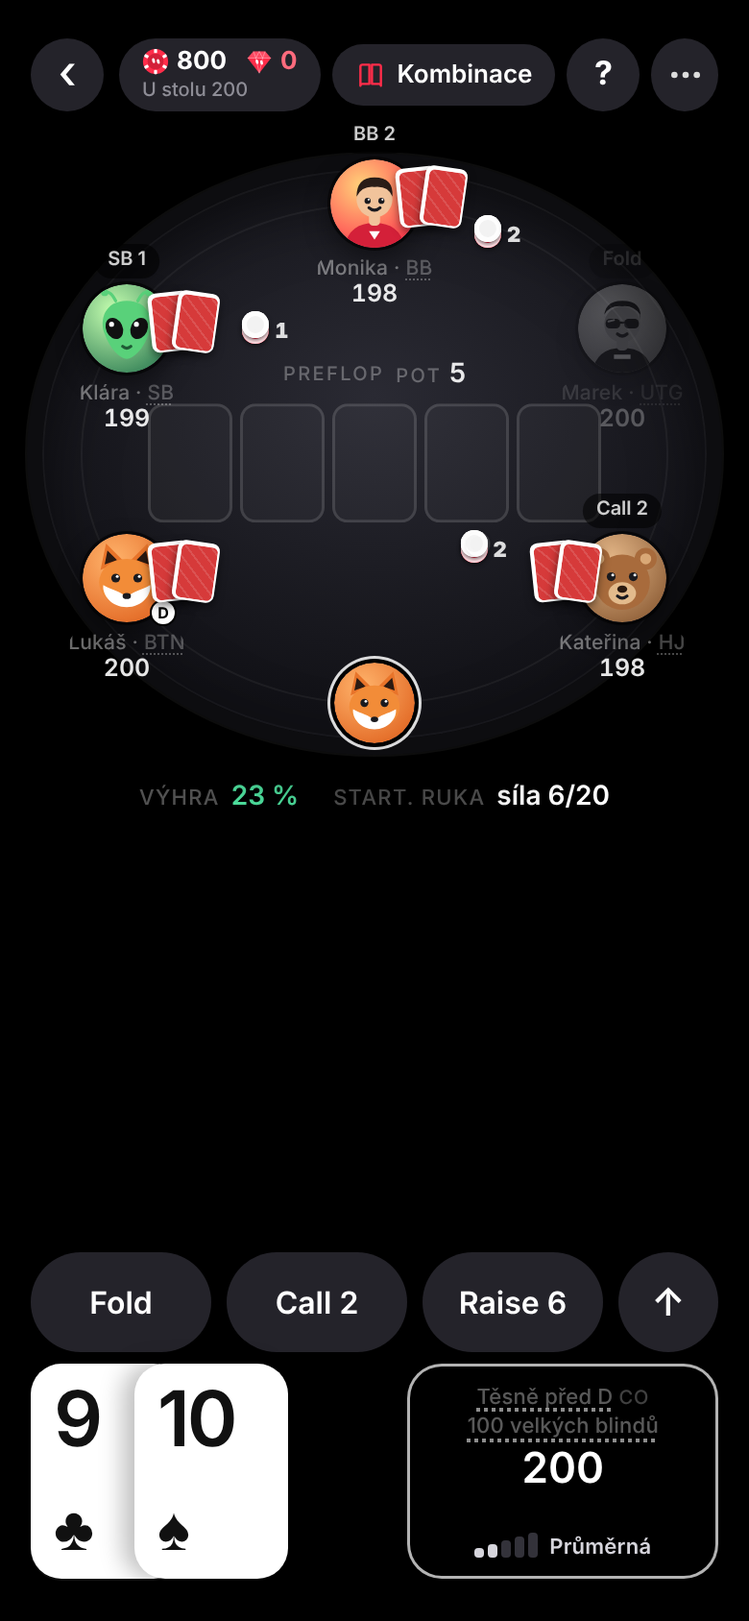
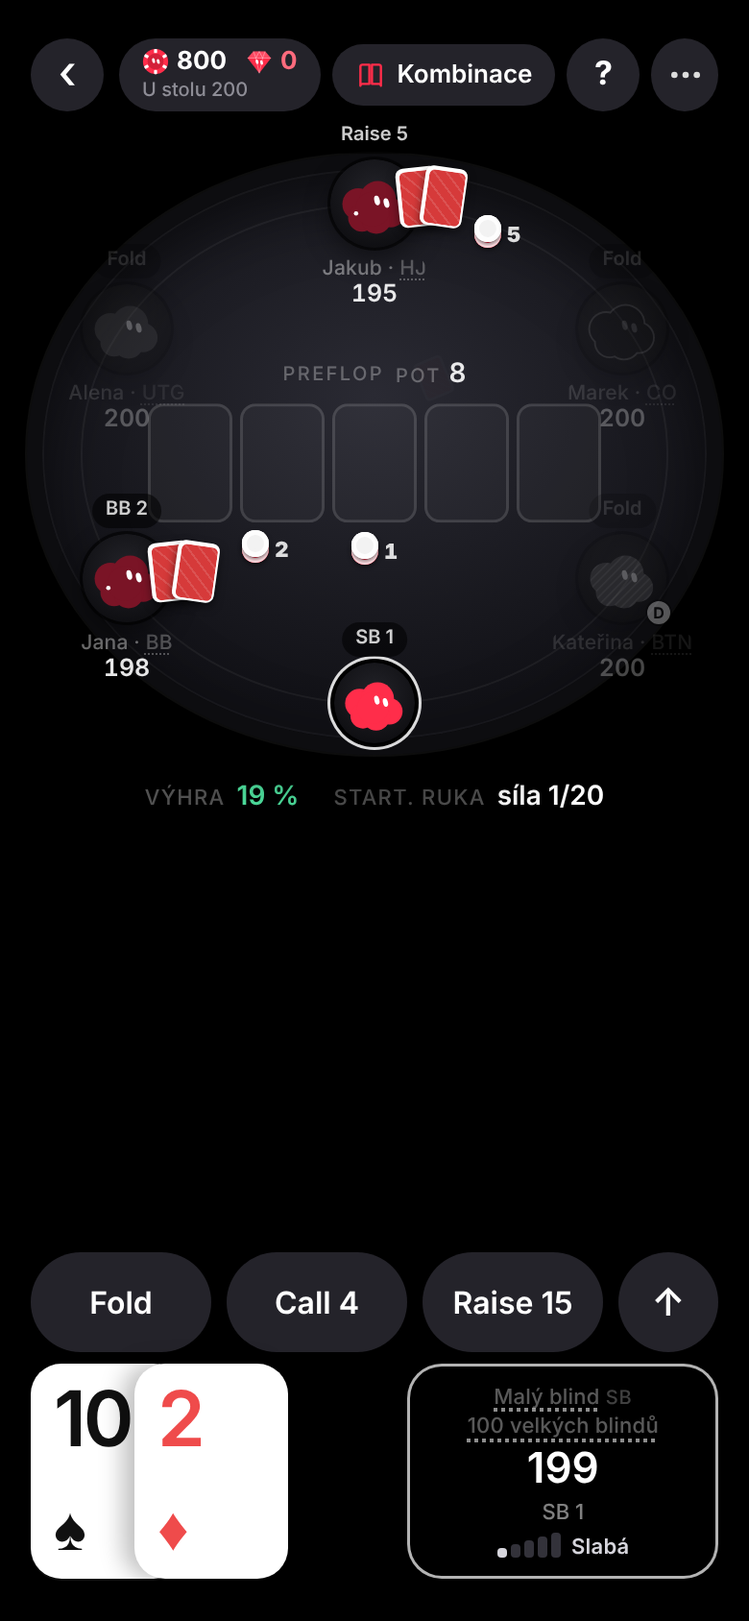
v30 (1.9.2): avatary ve stylu Lumiho (blob, šikmé oči, ploché barvy; vzácné s kovovým lemem/září, legendy s třpytem), nová jména; showdown karty vpravo nepřekrývají jméno

diff --git a/table.js b/table.js
@@ -13,37 +13,58 @@
     ['king', 'legend', { d: 12 }], ['dragon', 'legend', { d: 15 }],
     ['shark', 'excl', { ach: 'allin' }], ['wizard', 'excl', { ach: 'hands500' }], ['phoenix', 'excl', { ach: 'login7' }], ['diamond', 'excl', { ach: 'fullhouse' }]
   ];
-  const BOT_AV = ['fox', 'cat', 'bear', 'frog', 'panda', 'rabbit', 'owl', 'cowboy', 'shades', 'tiger', 'robot', 'alien', 'ninja', 'ace', 'queen'];
-  const eye = (x, y, r = 3.2, c = '#1a1a1f') => `<circle cx="${x}" cy="${y}" r="${r}" fill="${c}"/><circle cx="${x + r * .35}" cy="${y - r * .4}" r="${r * .33}" fill="#fff"/>`;
-  const eyes = (y, dx = 8, r, c) => eye(32 - dx, y, r, c) + eye(32 + dx, y, r, c);
-  const smile = (y, w = 6, c = '#1a1a1f') => `<path d="M${32 - w} ${y} Q32 ${y + w * .9} ${32 + w} ${y}" fill="none" stroke="${c}" stroke-width="2.2" stroke-linecap="round"/>`;
-  const person = (skin, shirt, hair) => `<path d="M10 66 Q12 46 32 46 Q52 46 54 66Z" fill="${shirt}"/><rect x="28" y="38" width="8" height="10" rx="3" fill="${skin}"/>${hair && hair.back || ''}<circle cx="32" cy="29" r="13" fill="${skin}"/>`;
+  const BOT_AV = ['fox', 'cat', 'bear', 'frog', 'ace', 'queen', 'panda', 'rabbit', 'owl', 'cowboy', 'shades', 'tiger', 'ninja'];
+  /* Všechny avatary jsou Lumi: stejný měkký „blob“ z kruhů, ploché barvy, dvě šikmé oválné oči.
+     Liší se jen barvou / vzorem, výrazem a jedním drobným doplňkem. Vzácnější = kovové akcenty, záře, u legend jemný třpyt. */
+  const LUMI_C = [[-40, -10, 44], [14, -24, 50], [50, 14, 40], [-30, 28, 38], [10, 30, 42], [0, 4, 48]];
+  const EP = [[12, -20], [38, -13]];
+  const B = (fill, grow, extra) => `<g fill="${fill}" ${extra || ''}>${LUMI_C.map(([x, y, r]) => `<circle cx="${x}" cy="${y}" r="${r + (grow || 0)}"/>`).join('')}</g>`;
+  const E = (fill, ry = 13.5, rx = 7.5) => EP.map(([x, y]) => `<ellipse cx="${x}" cy="${y}" rx="${rx}" ry="${ry}" transform="rotate(-14 ${x} ${y})" fill="${fill}"/>`).join('');
+  const arc = (x, y, c, up) => `<path d="M${x - 9} ${y + (up ? 4 : -2)} Q${x} ${y + (up ? -10 : 9)} ${x + 9} ${y + (up ? 4 : -2)}" fill="none" stroke="${c}" stroke-width="6" stroke-linecap="round" transform="rotate(-14 ${x} ${y})"/>`;
+  const SLEEPY = c => EP.map(([x, y]) => arc(x, y, c)).join('');
+  const WINK = c => E(c).split('/>')[0] + '/>' + arc(EP[1][0], EP[1][1], c, true);
+  const SHADES = '<g transform="rotate(-14 25 -16)" fill="#0b0b0d"><rect x="-2" y="-30" width="26" height="20" rx="7"/><rect x="28" y="-30" width="26" height="20" rx="7"/><rect x="20" y="-24" width="12" height="4"/><rect x="-24" y="-25" width="24" height="4" rx="2"/></g><path d="M3 -24 L11 -27" stroke="rgba(255,255,255,.55)" stroke-width="3" stroke-linecap="round"/>';
+  const CROWN = f => `<path d="M-14 -66 L-22 -100 L-2 -82 L14 -108 L30 -82 L50 -100 L42 -66 Z" fill="${f}" stroke="#0b0b0d" stroke-width="3" stroke-linejoin="round"/>`;
+  const HAT = '<g fill="#0b0b0d"><ellipse cx="14" cy="-66" rx="70" ry="11"/><path d="M-24 -68 Q-22 -112 14 -110 Q50 -112 52 -68Z"/></g><rect x="-23" y="-80" width="74" height="7" fill="#FF2D4A"/>';
+  const STRIPES = id => `<defs><pattern id="${id}" width="16" height="16" patternUnits="userSpaceOnUse" patternTransform="rotate(45)"><rect width="16" height="16" fill="#d63a3a"/><rect width="4" height="16" fill="rgba(255,255,255,.22)"/></pattern></defs>`;
+  const SPADE = (x, y, s, f) => `<path transform="translate(${x} ${y}) scale(${s})" fill="${f}" d="M0,-62 C18,-34 62,-12 62,16 C62,40 36,50 12,36 C14,52 22,64 32,70 L-32,70 C-22,64 -14,52 -12,36 C-36,50 -62,40 -62,16 C-62,-12 -18,-34 0,-62 Z"/>`;
+  // každý: (id) => [tělo v souřadnicích Lumiho, pozadí]
   const DRAW = {
-    fox: () => ['#ffb36b', '#e0631f', `<path d="M13 26 L17 7 L29 19Z M51 26 L47 7 L35 19Z" fill="#e8742a"/><path d="M16 22 L18 12 L25 19Z M48 22 L46 12 L39 19Z" fill="#2b1a12"/><ellipse cx="32" cy="35" rx="20" ry="17" fill="#f28c38"/><path d="M32 53 C21 53 14 44 15 37 C22 41 27 41 32 46 C37 41 42 41 49 37 C50 44 43 53 32 53Z" fill="#fff"/>${eyes(32, 8)}<ellipse cx="32" cy="45" rx="3" ry="2.2" fill="#1a1a1f"/>`],
-    cat: () => ['#c9cbd6', '#6b6f80', `<path d="M13 30 L15 8 L28 20Z M51 30 L49 8 L36 20Z" fill="#8d92a3"/><path d="M16 24 L17 13 L24 20Z M48 24 L47 13 L40 20Z" fill="#f4a9b8"/><circle cx="32" cy="36" r="19" fill="#9aa0b2"/>${eyes(33, 8, 3.4, '#2f7a3c')}<path d="M30 41 L34 41 L32 43.5Z" fill="#f47f97"/><path d="M32 43.5 Q29 47 26 45 M32 43.5 Q35 47 38 45" fill="none" stroke="#3a3a44" stroke-width="1.6" stroke-linecap="round"/><path d="M10 38 L22 40 M10 44 L22 43 M54 38 L42 40 M54 44 L42 43" stroke="#eee" stroke-width="1.2" stroke-linecap="round"/>`],
-    bear: () => ['#e6b98a', '#8a5a33', `<circle cx="15" cy="18" r="8" fill="#a86b3c"/><circle cx="49" cy="18" r="8" fill="#a86b3c"/><circle cx="15" cy="18" r="4" fill="#d9a876"/><circle cx="49" cy="18" r="4" fill="#d9a876"/><circle cx="32" cy="35" r="20" fill="#a86b3c"/><ellipse cx="32" cy="43" rx="10" ry="8" fill="#e3bb8c"/>${eyes(31, 8)}<ellipse cx="32" cy="40" rx="3.6" ry="2.6" fill="#2a1a10"/>${smile(45, 3.5)}`],
-    frog: () => ['#b8f08a', '#3f9a3a', `<ellipse cx="32" cy="42" rx="23" ry="16" fill="#66c24f"/><circle cx="20" cy="25" r="9" fill="#66c24f"/><circle cx="44" cy="25" r="9" fill="#66c24f"/><circle cx="20" cy="25" r="5.5" fill="#fff"/><circle cx="44" cy="25" r="5.5" fill="#fff"/>${eye(21, 25, 3)}${eye(45, 25, 3)}<path d="M18 43 Q32 54 46 43" fill="none" stroke="#1f5a1c" stroke-width="2.4" stroke-linecap="round"/><circle cx="17" cy="40" r="3" fill="#f7a1a1" opacity=".7"/><circle cx="47" cy="40" r="3" fill="#f7a1a1" opacity=".7"/>`],
-    ace: () => ['#ffd27a', '#ff2d4a', person('#f1c39b', '#d42039') + `<path d="M19 27 Q19 13 32 13 Q46 13 45 27 Q42 19 32 20 Q23 19 19 27Z" fill="#2a1d17"/>${eyes(30, 5, 2.2)}${smile(35, 4)}<path d="M28 52 L32 58 L36 52" fill="#fff"/>`],
-    queen: () => ['#ffc2d6', '#a33a6b', `<path d="M16 44 Q14 18 32 15 Q50 18 48 44Z" fill="#5b2d1a"/>` + person('#e8b08e', '#111') + `<path d="M19 29 Q20 14 32 14 Q45 14 45 29 Q40 20 30 21 Q24 22 19 29Z" fill="#6b3820"/>${eyes(30, 5, 2.2)}${smile(35, 3.5, '#b8324f')}<circle cx="19" cy="34" r="1.8" fill="#ffd27a"/><circle cx="45" cy="34" r="1.8" fill="#ffd27a"/>`],
-    panda: () => ['#dfe6ee', '#7d8a99', `<circle cx="16" cy="18" r="8" fill="#1d1d22"/><circle cx="48" cy="18" r="8" fill="#1d1d22"/><circle cx="32" cy="35" r="20" fill="#fff"/><ellipse cx="23" cy="33" rx="5.5" ry="7" fill="#1d1d22" transform="rotate(25 23 33)"/><ellipse cx="41" cy="33" rx="5.5" ry="7" fill="#1d1d22" transform="rotate(-25 41 33)"/>${eye(23.5, 32, 2.2, '#fff').replace('fill="#fff"/>', 'fill="#1d1d22"/>')}<circle cx="24" cy="32" r="2" fill="#fff"/><circle cx="40" cy="32" r="2" fill="#fff"/><ellipse cx="32" cy="42" rx="3.4" ry="2.4" fill="#1d1d22"/>${smile(46, 3)}`],
-    rabbit: () => ['#ffd9e4', '#c76b8a', `<ellipse cx="23" cy="14" rx="5.5" ry="14" fill="#f2f2f5"/><ellipse cx="41" cy="14" rx="5.5" ry="14" fill="#f2f2f5"/><ellipse cx="23" cy="14" rx="2.6" ry="10" fill="#f7b5c8"/><ellipse cx="41" cy="14" rx="2.6" ry="10" fill="#f7b5c8"/><circle cx="32" cy="39" r="18" fill="#f2f2f5"/>${eyes(36, 7)}<path d="M30 42 L34 42 L32 44.5Z" fill="#f47f97"/><path d="M32 44.5 V48 M29 49 Q32 51 35 49" fill="none" stroke="#555" stroke-width="1.5" stroke-linecap="round"/>`],
-    owl: () => ['#ffe2a8', '#8a6a3a', `<path d="M14 22 L18 10 L26 18Z M50 22 L46 10 L38 18Z" fill="#7a5530"/><ellipse cx="32" cy="38" rx="20" ry="22" fill="#9a6d3d"/><ellipse cx="32" cy="46" rx="12" ry="12" fill="#d9b483"/><circle cx="23" cy="30" r="8" fill="#ffd34d"/><circle cx="41" cy="30" r="8" fill="#ffd34d"/>${eye(23, 30, 4)}${eye(41, 30, 4)}<path d="M29 37 L35 37 L32 43Z" fill="#e8892b"/>`],
-    cowboy: () => ['#ffd9a8', '#b5651d', person('#e0a47e', '#3b6ea8') + `<ellipse cx="32" cy="19" rx="24" ry="5" fill="#7a4a22"/><path d="M20 19 Q20 5 32 6 Q44 5 44 19Z" fill="#8f5a2b"/><rect x="20" y="15" width="24" height="3.5" fill="#3a2414"/>${eyes(30, 5, 2.2)}<path d="M25 36 Q32 33 39 36 Q32 39 25 36Z" fill="#5b3a1e"/>`],
-    shades: () => ['#9fe7ff', '#2a6cff', person('#c98d62', '#111') + `<path d="M19 26 Q18 12 32 12 Q47 12 45 26 L45 22 Q40 15 32 16 Q23 15 19 22Z" fill="#111"/><rect x="20" y="25" width="10.5" height="7" rx="3" fill="#111"/><rect x="33.5" y="25" width="10.5" height="7" rx="3" fill="#111"/><rect x="30" y="27" width="4" height="1.6" fill="#111"/><path d="M22 27 L26 26" stroke="#5cf" stroke-width="1.4" stroke-linecap="round"/>${smile(36, 3.5)}<path d="M26 51 h12 v3 h-12z" fill="#ffd27a"/>`],
-    tiger: () => ['#ffcf7a', '#d9661a', `<circle cx="15" cy="17" r="7" fill="#f08a24"/><circle cx="49" cy="17" r="7" fill="#f08a24"/><circle cx="15" cy="17" r="3.5" fill="#fff"/><circle cx="49" cy="17" r="3.5" fill="#fff"/><circle cx="32" cy="35" r="20" fill="#f08a24"/><path d="M32 15 L30 22 L34 22Z M14 30 L22 32 L14 35Z M50 30 L42 32 L50 35Z M18 23 L24 27 M46 23 L40 27" fill="#1d1d22" stroke="#1d1d22" stroke-width="2" stroke-linecap="round"/><ellipse cx="32" cy="45" rx="11" ry="8" fill="#fff"/>${eyes(32, 8, 3, '#2c6e2c')}<ellipse cx="32" cy="41" rx="3.4" ry="2.4" fill="#e8607a"/>${smile(46, 3)}`],
-    robot: () => ['#a8f0ff', '#3c5a78', `<rect x="31" y="5" width="2.5" height="9" fill="#9aa4b1"/><circle cx="32.2" cy="5" r="3" fill="#ff2d4a"/><rect x="13" y="14" width="38" height="34" rx="9" fill="#c4ccd6"/><rect x="18" y="21" width="28" height="14" rx="6" fill="#1b2633"/><circle cx="25" cy="28" r="3.6" fill="#5cf"/><circle cx="39" cy="28" r="3.6" fill="#5cf"/><rect x="23" y="39" width="18" height="4" rx="2" fill="#7d8896"/><rect x="9" y="25" width="4" height="12" rx="2" fill="#9aa4b1"/><rect x="51" y="25" width="4" height="12" rx="2" fill="#9aa4b1"/><path d="M14 66 Q16 52 32 52 Q48 52 50 66Z" fill="#7d8896"/>`],
-    alien: () => ['#c6ffb0', '#2c7a52', `<path d="M24 12 Q20 4 16 6 M40 12 Q44 4 48 6" stroke="#59d17a" stroke-width="2.2" fill="none" stroke-linecap="round"/><circle cx="16" cy="6" r="2.6" fill="#59d17a"/><circle cx="48" cy="6" r="2.6" fill="#59d17a"/><path d="M32 12 C48 12 52 26 48 36 C44 47 37 54 32 54 C27 54 20 47 16 36 C12 26 16 12 32 12Z" fill="#59d17a"/><ellipse cx="23" cy="32" rx="6" ry="8" fill="#111" transform="rotate(-25 23 32)"/><ellipse cx="41" cy="32" rx="6" ry="8" fill="#111" transform="rotate(25 41 32)"/><circle cx="21" cy="29" r="1.8" fill="#fff"/><circle cx="39" cy="29" r="1.8" fill="#fff"/>${smile(45, 3, '#1f5a35')}`],
-    ninja: () => ['#ff8a8a', '#3a0d14', person('#e0a47e', '#1d1d22') + `<circle cx="32" cy="29" r="13.5" fill="#1d1d22"/><rect x="19" y="24" width="26" height="9" rx="4" fill="#e0a47e"/>${eyes(28.5, 5, 2.2)}<rect x="18" y="20" width="28" height="3.5" fill="#ff2d4a"/><path d="M45 21 L55 16 L53 23Z" fill="#ff2d4a"/>`],
-    king: () => ['#fff0a8', '#c99a1c', person('#f1c39b', '#8a1530') + `<path d="M20 34 Q22 48 32 48 Q42 48 44 34 Q38 40 32 40 Q26 40 20 34Z" fill="#e9e9ee"/><path d="M19 22 L19 8 L25.5 14 L32 5 L38.5 14 L45 8 L45 22Z" fill="#ffd34d" stroke="#b8860b" stroke-width="1.4" stroke-linejoin="round"/><circle cx="32" cy="16" r="2.3" fill="#ff2d4a"/>${eyes(29, 5, 2.2)}<path d="M28 52 L32 56 L36 52" fill="#ffd34d"/>`],
-    dragon: () => ['#ff9a6b', '#6a0f1c', `<path d="M18 20 L10 4 L24 15Z M46 20 L54 4 L40 15Z" fill="#ffd34d"/><path d="M14 30 Q14 14 32 14 Q50 14 50 30 L50 40 Q50 54 32 54 Q14 54 14 40Z" fill="#d42039"/><path d="M20 44 Q32 58 44 44 Q44 52 32 54 Q20 52 20 44Z" fill="#ff8a5c"/>${eye(23, 30, 3.4, '#ffd34d')}${eye(41, 30, 3.4, '#ffd34d')}<circle cx="28" cy="44" r="1.6" fill="#3a0d14"/><circle cx="36" cy="44" r="1.6" fill="#3a0d14"/><path d="M8 34 L14 32 L14 38Z M56 34 L50 32 L50 38Z" fill="#a8122c"/>`],
-    shark: () => ['#9fd6ff', '#164a7a', `<path d="M32 4 L40 18 L26 18Z" fill="#5a7a96"/><ellipse cx="32" cy="36" rx="22" ry="19" fill="#6f8fab"/><path d="M12 40 Q32 60 52 40 Q48 52 32 54 Q16 52 12 40Z" fill="#eef4f8"/><path d="M18 42 L22 47 L26 43 L30 48 L34 43 L38 48 L42 43 L46 47" fill="none" stroke="#fff" stroke-width="2.4" stroke-linejoin="round"/><path d="M17 42 Q32 50 47 42" fill="none" stroke="#2a3a48" stroke-width="2"/>${eyes(31, 11, 3)}<path d="M18 26 L26 29 M46 26 L38 29" stroke="#2a3a48" stroke-width="2.2" stroke-linecap="round"/>`],
-    wizard: () => ['#c7b3ff', '#3a1f8a', person('#f1c39b', '#4b2aa8') + `<path d="M18 33 Q20 54 32 56 Q44 54 46 33 Q40 39 32 39 Q24 39 18 33Z" fill="#f4f4f8"/><path d="M14 22 L32 -2 L50 22Z" fill="#5a34c7"/><ellipse cx="32" cy="22" rx="20" ry="4" fill="#4527a0"/><path d="M28 8 l1.2 2.6 2.8.3-2.1 1.9.6 2.8-2.5-1.4-2.5 1.4.6-2.8-2.1-1.9 2.8-.3z" fill="#ffd34d"/>${eyes(29, 5, 2.2)}`],
-    phoenix: () => ['#ffd36b', '#c2181f', `<path d="M32 2 Q36 12 30 16 Q40 10 42 20 Q48 12 46 4 Q56 16 46 26 L18 26 Q8 16 18 4 Q16 12 22 20 Q24 10 34 16 Q28 12 32 2Z" fill="#ffb02e"/><circle cx="32" cy="36" r="17" fill="#ff5a2b"/><path d="M15 40 Q4 44 6 56 Q14 48 20 50Z M49 40 Q60 44 58 56 Q50 48 44 50Z" fill="#ffb02e"/>${eyes(33, 7, 3)}<path d="M28 40 L36 40 L32 47Z" fill="#ffd34d"/>`],
-    diamond: () => ['#9ff0ff', '#1a3a7a', `<path d="M17 18 H47 L58 31 L32 58 L6 31Z" fill="#5ad0ff"/><path d="M6 31 H58 M17 18 L24 31 L32 58 M47 18 L40 31 L32 58 M24 31 L32 18 L40 31" fill="none" stroke="rgba(255,255,255,.55)" stroke-width="1.4" stroke-linejoin="round"/><path d="M17 18 H47 L58 31 H6Z" fill="rgba(255,255,255,.25)"/>${eyes(38, 7, 3)}${smile(44, 3.5)}`]
+    fox: () => B('#FF2D4A') + E('#fff'),                                                   // Rubín – klasický Lumi
+    cat: () => B('#f2f2f4') + E('#111'),                                                    // Mlha – bílý
+    bear: () => B('#4a4a54') + E('#fff'),                                                   // Grafit
+    frog: () => B('#FF2D4A') + SLEEPY('#fff'),                                              // Klid – spokojeně přivřené oči
+    ace: () => B('#f2f2f4') + E('#FF2D4A') + SPADE(-34, 26, 0.26, '#111'),                  // Eso – bílý se pikovým znakem
+    queen: () => B('#7a1426') + E('#fff') + '<circle cx="-46" cy="16" r="6" fill="#fff"/>',  // Dáma – bordó s perlou
+    panda: u => STRIPES(u + 'p') + B(`url(#${u}p)`) + E('#fff'),                           // Proužek
+    rabbit: () => B('#FF2D4A') + WINK('#fff'),                                              // Mrk
+    owl: () => B('#FF2D4A', 5) + B('#141417') + E('#FF2D4A'),  // Noc – černý s rudým obrysem
+    cowboy: () => B('#FF2D4A') + E('#fff') + HAT,                                           // Fedora
+    shades: () => B('#FF2D4A') + E('#fff') + SHADES,                                        // Brýle
+    tiger: () => B('#2b2b32') + '<g stroke="#FF2D4A" stroke-width="7" stroke-linecap="round"><path d="M-62 -6 L-34 2"/><path d="M-60 18 L-30 20"/><path d="M68 2 L80 -6"/></g>' + E('#fff', 6, 8),  // Šelma – úzké oči
+    robot: u => `<defs><linearGradient id="${u}m" x1="0" y1="0" x2="1" y2="1"><stop offset="0" stop-color="#f4f5f8"/><stop offset=".45" stop-color="#9ea3ad"/><stop offset=".7" stop-color="#e4e6eb"/><stop offset="1" stop-color="#6c707a"/></linearGradient></defs>` + B(`url(#${u}m)`) + '<g transform="rotate(-14 25 -16)"><rect x="-2" y="-24" width="56" height="12" rx="6" fill="#0b0b0d"/><rect x="6" y="-20" width="38" height="4" rx="2" fill="#FF2D4A"/></g>',  // Chrom
+    alien: u => `<defs><filter id="${u}g" x="-40%" y="-40%" width="180%" height="180%"><feGaussianBlur stdDeviation="6"/></filter></defs>` + B('#FF2D4A', 4, `filter="url(#${u}g)" opacity=".75"`) + B('#0b0b0d') + E('#FF2D4A'),  // Neon – černý s rudou září
+    ninja: () => B('#2b2b32') + '<path d="M-80 -28 Q14 -48 96 -8 L94 8 Q14 -30 -80 -10Z" fill="#FF2D4A"/><path d="M90 -2 L112 -14 L108 4Z" fill="#FF2D4A"/>' + E('#fff', 5.5, 8),  // Stín
+    king: u => `<defs><linearGradient id="${u}a" x1="0" y1="0" x2="1" y2="1"><stop offset="0" stop-color="#fff1b8"/><stop offset=".5" stop-color="#d4a433"/><stop offset="1" stop-color="#8a6414"/></linearGradient></defs>` + B('#FF2D4A') + E('#fff') + CROWN(`url(#${u}a)`),  // Král
+    dragon: u => `<defs><radialGradient id="${u}f" cx=".35" cy=".3" r=".9"><stop offset="0" stop-color="#ffd27a"/><stop offset=".45" stop-color="#ff5a2b"/><stop offset="1" stop-color="#b3122c"/></radialGradient></defs>` + B(`url(#${u}f)`) + E('#fff') + '<path d="M-30 -60 L-40 -96 L-14 -70Z M30 -72 L36 -108 L50 -74Z" fill="#b3122c"/>',  // Plamen
+    shark: () => B('#FF2D4A') + '<g fill="none" stroke="#fff" stroke-width="6" stroke-dasharray="14 12" opacity=".9">' + LUMI_C.slice(0, 1).map(() => '<circle cx="4" cy="2" r="70"/>').join('') + '</g>' + E('#fff'),  // All-in – žetonový lem
+    wizard: () => B('#f2f2f4') + E('#111') + '<circle cx="38" cy="-13" r="17" fill="none" stroke="#d4a433" stroke-width="4"/><path d="M54 -6 Q62 20 58 40" fill="none" stroke="#d4a433" stroke-width="2.5"/>',  // Mudrc – monokl
+    phoenix: u => `<defs><linearGradient id="${u}p" x1="0" y1="1" x2="0" y2="0"><stop offset="0" stop-color="#b3122c"/><stop offset=".6" stop-color="#FF2D4A"/><stop offset="1" stop-color="#ffb02e"/></linearGradient></defs>` + '<path d="M-6 -66 Q-10 -96 8 -116 Q6 -96 22 -84 Q30 -104 46 -110 Q34 -90 40 -66Z" fill="#ffb02e"/>' + B(`url(#${u}p)`) + E('#fff'),  // Fénix
+    diamond: () => B('#FF2D4A') + '<g fill="none" stroke="rgba(255,255,255,.35)" stroke-width="3" stroke-linejoin="round"><path d="M-84 -10 L-30 -50 L20 -74 L70 -30 L90 14"/><path d="M-30 -50 L0 4 L20 -74 M0 4 L70 -30 M0 4 L-68 50 M0 4 L52 52"/></g><path d="M-30 -50 L20 -74 L70 -30 L0 4Z" fill="rgba(255,255,255,.14)"/>' + E('#fff')  // Diamant – broušený
   };
+  const RING = {
+    free: '', common: '',
+    rare: '<circle cx="32" cy="32" r="30.6" fill="none" stroke="rgba(255,255,255,.35)" stroke-width="1.2"/>',
+    epic: u => `<defs><linearGradient id="${u}r" x1="0" y1="0" x2="1" y2="1"><stop offset="0" stop-color="#ff6b80"/><stop offset=".5" stop-color="#FF2D4A"/><stop offset="1" stop-color="#6d0f1d"/></linearGradient></defs><circle cx="32" cy="32" r="30.3" fill="none" stroke="url(#${u}r)" stroke-width="1.8"/>`,
+    legend: u => `<defs><linearGradient id="${u}r" x1="0" y1="0" x2="1" y2="1"><stop offset="0" stop-color="#fff1b8"/><stop offset=".5" stop-color="#d4a433"/><stop offset="1" stop-color="#7a5510"/></linearGradient><linearGradient id="${u}s" x1="0" y1="0" x2="1" y2="0"><stop offset="0" stop-color="#fff" stop-opacity="0"/><stop offset=".5" stop-color="#fff" stop-opacity=".38"/><stop offset="1" stop-color="#fff" stop-opacity="0"/></linearGradient></defs><circle cx="32" cy="32" r="30.2" fill="none" stroke="url(#${u}r)" stroke-width="2.2"/><rect class="av-shim" x="-40" y="-10" width="22" height="84" fill="url(#${u}s)" transform="rotate(20 32 32)"><animate attributeName="x" values="-40;-40;90" keyTimes="0;.55;1" dur="3.6s" repeatCount="indefinite"/></rect>`,
+    excl: '<circle cx="32" cy="32" r="30.4" fill="none" stroke="#FF2D4A" stroke-width="1.4"/><circle cx="32" cy="32" r="28.6" fill="none" stroke="rgba(255,45,74,.25)" stroke-width="1"/>'
+  };
+  const RAR = {}; AV.forEach(a => { RAR[a[0]] = a[1]; });
   function avatarSVG(id) {
-    const d = (DRAW[id] || DRAW.fox)(), g = 'rav' + (++uid);
-    return `<svg class="av-svg" viewBox="0 0 64 64" aria-hidden="true"><defs><radialGradient id="${g}" cx=".35" cy=".3" r=".85"><stop offset="0" stop-color="${d[0]}"/><stop offset="1" stop-color="${d[1]}"/></radialGradient><clipPath id="${g}c"><circle cx="32" cy="32" r="32"/></clipPath></defs><g clip-path="url(#${g}c)"><circle cx="32" cy="32" r="32" fill="url(#${g})"/>${d[2]}</g></svg>`;
+    if (!DRAW[id]) id = 'fox';
+    const u = 'rav' + (++uid), r = RAR[id], ring = RING[r], rg = typeof ring === 'function' ? ring(u) : ring;
+    const glow = r === 'epic' || r === 'legend' ? `<circle cx="32" cy="38" r="20" fill="${r === 'legend' ? 'rgba(212,164,51,.18)' : 'rgba(255,45,74,.16)'}"/>` : '';
+    return `<svg class="av-svg" viewBox="0 0 64 64" aria-hidden="true"><defs><radialGradient id="${u}b" cx=".5" cy=".38" r=".7"><stop offset="0" stop-color="#232329"/><stop offset="1" stop-color="#0c0c0f"/></radialGradient><clipPath id="${u}c"><circle cx="32" cy="32" r="32"/></clipPath></defs><g clip-path="url(#${u}c)"><circle cx="32" cy="32" r="32" fill="url(#${u}b)"/>${glow}<g transform="translate(31.5 35) scale(.262) translate(-3 0)">${DRAW[id](u)}</g>${rg}</g></svg>`;
   }
   const hash = s => { let h = 7; for (const ch of String(s)) h = (h * 31 + ch.charCodeAt(0)) >>> 0; return h; };
   const botAv = name => BOT_AV[hash(name) % BOT_AV.length];

diff --git a/i18n.js b/i18n.js
@@ -484,7 +484,7 @@
     'a.login7': 'Týden u stolu', 'a.login7.d': 'Otevři aplikaci 7 dní v řadě.',
     'lk.back': 'Rub karet', 'lk.felt': 'Stůl', 'lk.lumi': 'Lumi', 'lk.use': 'Použít', 'lk.using': 'Používáš', 'lk.buy': 'Koupit za {n} 💎', 'lk.buyQ': 'Koupit {n}?',
     'lk.lack': 'Chybí ti {n} 💎', 'lk.bought': 'Koupeno: {n}', 'lk.cancel': 'Zrušit', 'lk.hint': 'Za diamanty si změníš vzhled karet, stolu a Lumiho.',
-    'av.n.fox': 'Liška', 'av.n.cat': 'Kočka', 'av.n.bear': 'Medvěd', 'av.n.frog': 'Žába', 'av.n.ace': 'Eso', 'av.n.queen': 'Dáma', 'av.n.panda': 'Panda', 'av.n.rabbit': 'Králík', 'av.n.owl': 'Sova', 'av.n.cowboy': 'Kovboj', 'av.n.shades': 'Brýlák', 'av.n.tiger': 'Tygr', 'av.n.robot': 'Robot', 'av.n.alien': 'Mimozemšťan', 'av.n.ninja': 'Nindža', 'av.n.king': 'Král', 'av.n.dragon': 'Drak', 'av.n.shark': 'Žralok', 'av.n.wizard': 'Čaroděj', 'av.n.phoenix': 'Fénix', 'av.n.diamond': 'Diamant',
+    'av.n.fox': 'Rubín', 'av.n.cat': 'Mlha', 'av.n.bear': 'Grafit', 'av.n.frog': 'Klid', 'av.n.ace': 'Eso', 'av.n.queen': 'Dáma', 'av.n.panda': 'Proužek', 'av.n.rabbit': 'Mrk', 'av.n.owl': 'Noc', 'av.n.cowboy': 'Fedora', 'av.n.shades': 'Brýle', 'av.n.tiger': 'Šelma', 'av.n.robot': 'Chrom', 'av.n.alien': 'Neon', 'av.n.ninja': 'Stín', 'av.n.king': 'Král', 'av.n.dragon': 'Plamen', 'av.n.shark': 'All-in', 'av.n.wizard': 'Mudrc', 'av.n.phoenix': 'Fénix', 'av.n.diamond': 'Diamant',
     'set.avatar': 'Avatar u stolu', 'av.pick': 'Vyber si avatara', 'av.sub': 'Uvidí ho všichni u stolu.', 'av.shop': 'Některé jsou zdarma, další koupíš za body nebo diamanty. Exkluzivní získáš jen za úspěchy.', 'av.change': 'Změnit', 'av.r.free': 'Zdarma', 'av.r.common': 'Běžný', 'av.r.rare': 'Vzácný', 'av.r.epic': 'Epický', 'av.r.legend': 'Legendární', 'av.r.excl': 'Exkluzivní', 'av.lock': 'Jen za úspěch: {a}', 'av.buyQ': 'Koupit avatara {n}?', 'av.buy': 'Koupit za', 'av.lackP': 'Chybí ti {n} bodů', 'sm.show': 'Ukázat', 'sm.one1': 'Jen 1.', 'sm.one2': 'Jen 2.', 'sm.muck': 'Zahodit', 'sm.shown': 'Ukazuje', 'sm.shown1': 'Ukazuje 1', 'sm.mucked': 'Zahodil', 'tok.n': 'Žetony Ukázat', 'tok.peek': 'Ukázat složené', 'tok.sub': 'Po ruce odkryje karty, které boti složili (jen offline).', 'tok.none': 'Nemáš žádný žeton Ukázat. Koupíš ho v obchodě, vyměníš za body nebo vyhraješ na kole štěstí.', 'tok.toShop': 'Do obchodu', 'tok.buy': '3 za 1 💎', 'tok.exT': 'Žeton za body', 'tok.exSub': '1 žeton Ukázat za {n} 🪙', 'tok.ex': 'Vyměnit za {n} 🪙', 'tok.got': '+{n} žetony Ukázat', 'tok.wh': 'UKÁZAT', 'wh.tok': 'Vyhráváš {n} žetony Ukázat!',
     'lc.kicker': 'Lumi kouč', 'lc.title.good': 'Skvělé sezení!', 'lc.title.ok': 'Slušná práce', 'lc.title.low': 'Je na čem pracovat', 'lc.stats': '{n} rukou · přesnost {a} · do hry jsi šel v {v}',
     'lc.leaks': 'Kde ztrácíš nejvíc', 'lc.drill': 'Doporučený trénink', 'lc.drillSub': 'Krátká série spotů přesně na tohle', 'lc.later': 'Teď ne', 'lc.focus': 'Lumi: {n}',
@@ -550,7 +550,7 @@
     'a.login7': 'A week at the table', 'a.login7.d': 'Open the app 7 days in a row.',
     'lk.back': 'Card back', 'lk.felt': 'Table', 'lk.lumi': 'Lumi', 'lk.use': 'Use', 'lk.using': 'In use', 'lk.buy': 'Buy for {n} 💎', 'lk.buyQ': 'Buy {n}?',
     'lk.lack': 'You need {n} more 💎', 'lk.bought': 'Bought: {n}', 'lk.cancel': 'Cancel', 'lk.hint': 'Spend diamonds to change how the cards, table and Lumi look.',
-    'av.n.fox': 'Fox', 'av.n.cat': 'Cat', 'av.n.bear': 'Bear', 'av.n.frog': 'Frog', 'av.n.ace': 'Ace', 'av.n.queen': 'Queen', 'av.n.panda': 'Panda', 'av.n.rabbit': 'Rabbit', 'av.n.owl': 'Owl', 'av.n.cowboy': 'Cowboy', 'av.n.shades': 'Shades', 'av.n.tiger': 'Tiger', 'av.n.robot': 'Robot', 'av.n.alien': 'Alien', 'av.n.ninja': 'Ninja', 'av.n.king': 'King', 'av.n.dragon': 'Dragon', 'av.n.shark': 'Shark', 'av.n.wizard': 'Wizard', 'av.n.phoenix': 'Phoenix', 'av.n.diamond': 'Diamond',
+    'av.n.fox': 'Ruby', 'av.n.cat': 'Mist', 'av.n.bear': 'Graphite', 'av.n.frog': 'Calm', 'av.n.ace': 'Ace', 'av.n.queen': 'Queen', 'av.n.panda': 'Stripe', 'av.n.rabbit': 'Wink', 'av.n.owl': 'Night', 'av.n.cowboy': 'Fedora', 'av.n.shades': 'Shades', 'av.n.tiger': 'Prowler', 'av.n.robot': 'Chrome', 'av.n.alien': 'Neon', 'av.n.ninja': 'Shadow', 'av.n.king': 'King', 'av.n.dragon': 'Flame', 'av.n.shark': 'All-in', 'av.n.wizard': 'Sage', 'av.n.phoenix': 'Phoenix', 'av.n.diamond': 'Diamond',
     'set.avatar': 'Table avatar', 'av.pick': 'Pick your avatar', 'av.sub': 'Everyone at the table sees it.', 'av.shop': 'Some are free, others cost points or diamonds. Exclusives come only from achievements.', 'av.change': 'Change', 'av.r.free': 'Free', 'av.r.common': 'Common', 'av.r.rare': 'Rare', 'av.r.epic': 'Epic', 'av.r.legend': 'Legendary', 'av.r.excl': 'Exclusive', 'av.lock': 'Achievement only: {a}', 'av.buyQ': 'Buy avatar {n}?', 'av.buy': 'Buy for', 'av.lackP': 'You need {n} more points', 'sm.show': 'Show', 'sm.one1': '1st only', 'sm.one2': '2nd only', 'sm.muck': 'Muck', 'sm.shown': 'Shows', 'sm.shown1': 'Shows 1', 'sm.mucked': 'Mucked', 'tok.n': 'Show tokens', 'tok.peek': 'Reveal folded', 'tok.sub': 'After a hand, reveals the cards bots folded (offline only).', 'tok.none': 'You have no Show tokens. Buy them in the shop, swap points for them or win them on the wheel.', 'tok.toShop': 'Go to shop', 'tok.buy': '3 for 1 💎', 'tok.exT': 'Token for points', 'tok.exSub': '1 Show token for {n} 🪙', 'tok.ex': 'Swap for {n} 🪙', 'tok.got': '+{n} Show tokens', 'tok.wh': 'SHOW', 'wh.tok': 'You won {n} Show tokens!',
     'lc.kicker': 'Lumi coach', 'lc.title.good': 'Great session!', 'lc.title.ok': 'Solid work', 'lc.title.low': 'Room to improve', 'lc.stats': '{n} hands · accuracy {a} · you played {v} of hands',
     'lc.leaks': 'Where you lose most', 'lc.drill': 'Recommended drill', 'lc.drillSub': 'A short series of spots aimed at exactly this', 'lc.later': 'Not now', 'lc.focus': 'Lumi: {n}',

diff --git a/style.css b/style.css
@@ -1202,3 +1202,10 @@ body[data-cfelt="midnight"]{--f1:#1d2d63;--f2:#080d24;--rail1:#232a44;--rail2:#0
 #scr-game .sd-row{gap:6px;font-size:12px;color:rgba(255,255,255,.4);padding:0;border:0;background:none}
 #scr-game .sd-row .sd-n{color:rgba(255,255,255,.5);width:auto}
 #scr-game .sd-row.win,#scr-game .sd-row.win .sd-n{color:#fff}
+
+/* v30: avatary ve stylu Lumiho */
+.felt .avatar,.seat-me .avatar{background:#0c0c0f}
+@media (prefers-reduced-motion:reduce){.av-shim{display:none}}
+.felt .opp .mini.open{top:-8px}
+.av-it{background:#141417}
+.av-it[data-r="epic"] .av-r{color:#ff6b80}

diff --git a/sw.js b/sw.js
@@ -1,7 +1,7 @@
 /* Service worker – offline cache. Při změně souborů zvyš VERSION.
    Nová verze se nainstaluje na pozadí (čerstvé soubory, ne z HTTP cache), převezme stránku
    a aplikace ukáže oznámení „Nová verze je připravená – Obnovit“. */
-const VERSION = 'v29';
+const VERSION = 'v30';
 const CACHE = 'poker-trener-' + VERSION;
 const FILES = [
   './', './index.html', './style.css', './i18n.js', './engine.js', './leagues.js', './table.js', './app.js', './manifest.webmanifest',

diff --git a/app.js b/app.js
@@ -3,7 +3,7 @@
   'use strict';
   const $ = id => document.getElementById(id);
   const t = (k, p) => I18N.t(k, p);
-  const APP_VERSION = '1.9.1', BUILD = 'v29';
+  const APP_VERSION = '1.9.2', BUILD = 'v30';
   const FAST = () => !!window.__FAST;
   const reduced = () => window.matchMedia && matchMedia('(prefers-reduced-motion: reduce)').matches;
   const noAnim = () => FAST() || reduced();
